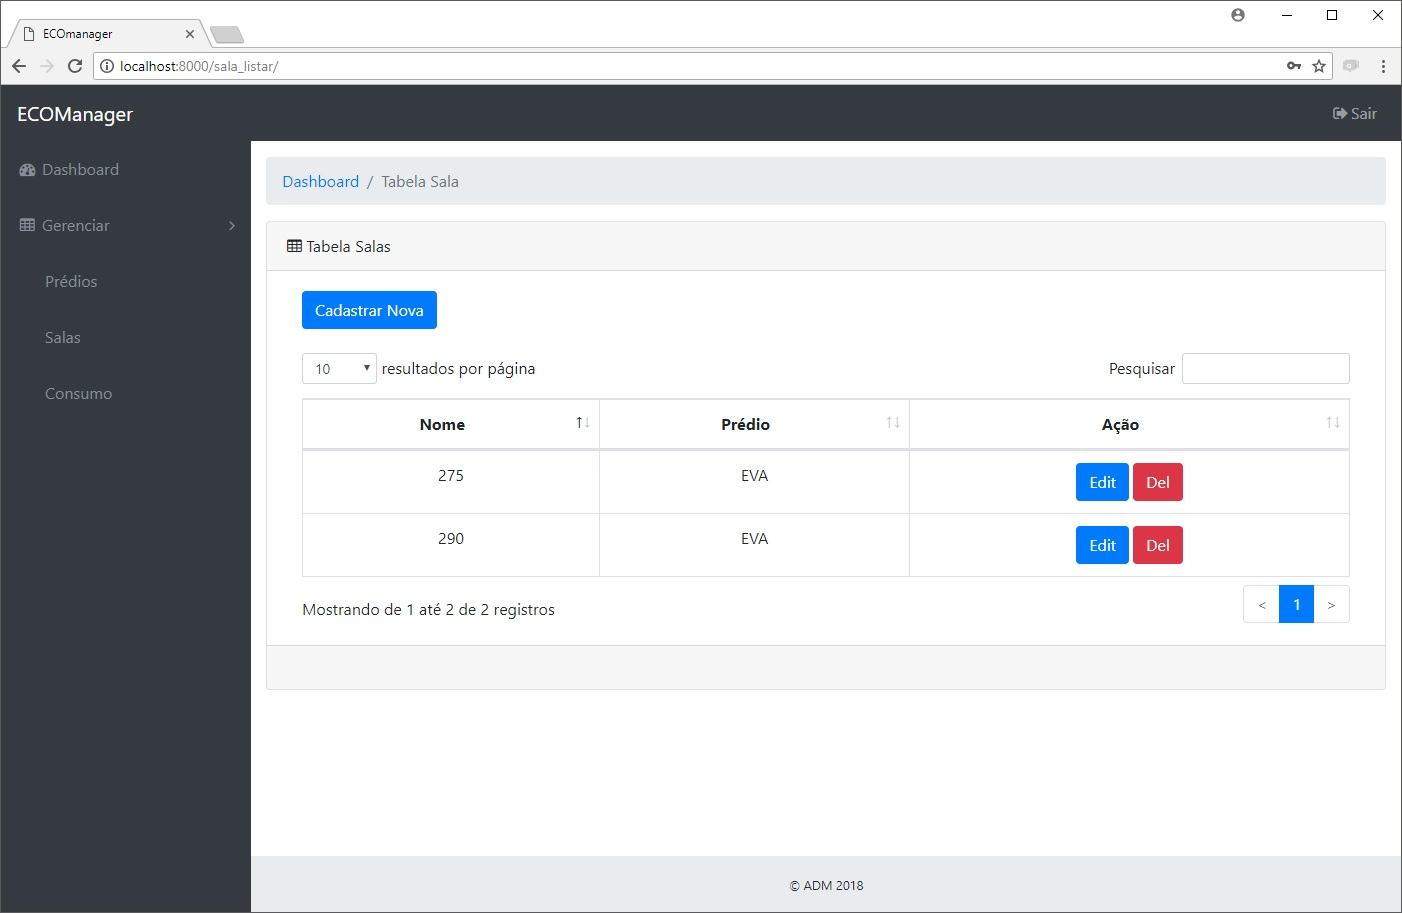
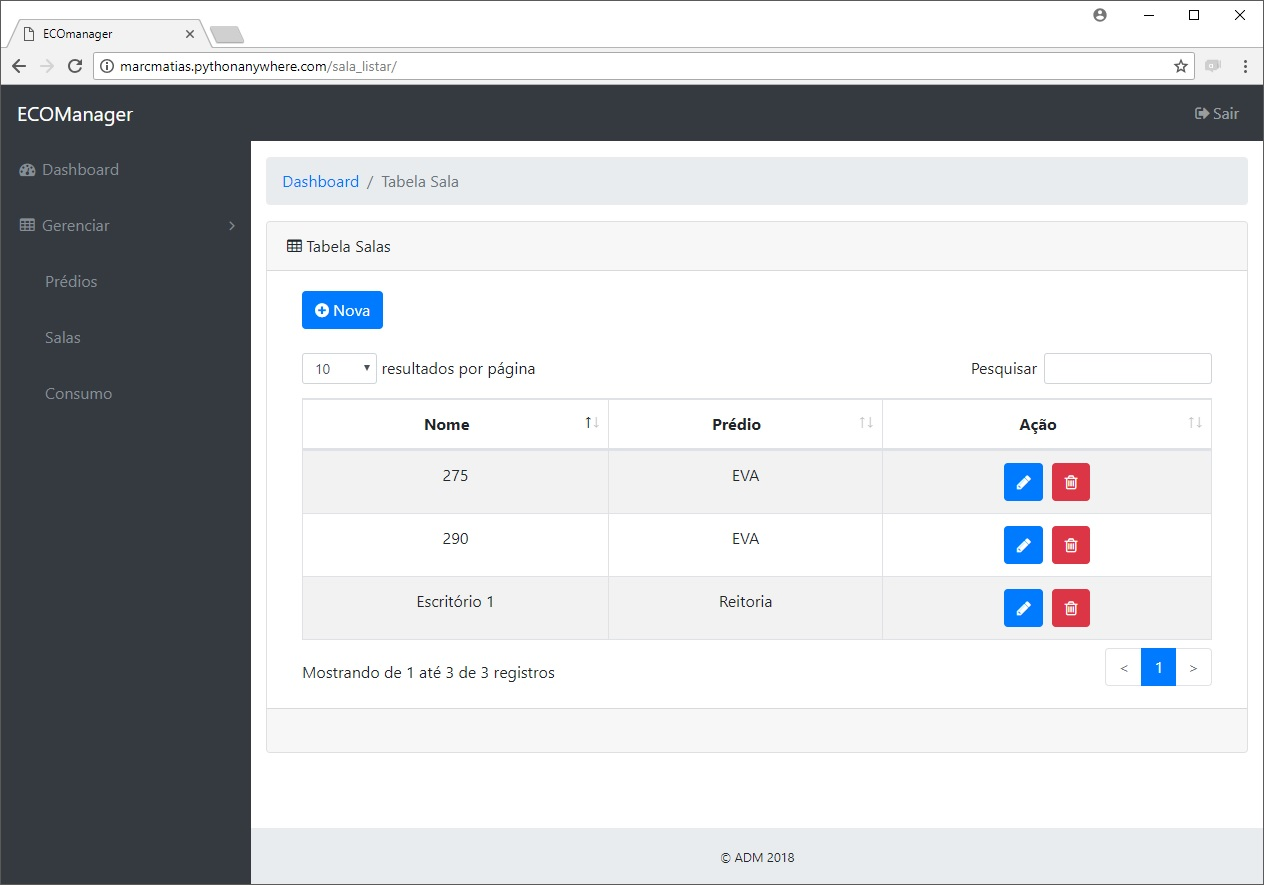
atualizacao de imagens mockups e do link da brand navbar

diff --git a/sistema/templates/base.html b/sistema/templates/base.html
@@ -24,7 +24,7 @@
   <body class="fixed-nav sticky-footer bg-dark" id="page-top">
     <!-- Navigation-->
     <nav class="navbar navbar-expand-lg navbar-dark bg-dark fixed-top" id="mainNav">
-      <a class="navbar-brand" href="{% url 'sistema:home' %}">ECOManager</a>
+      <a class="navbar-brand" href="{% url 'sistema:chart' %}">ECOManager</a>
       <button class="navbar-toggler navbar-toggler-right" type="button" data-toggle="collapse" data-target="#navbarResponsive" aria-controls="navbarResponsive" aria-expanded="false" aria-label="Toggle navigation">
         <span class="navbar-toggler-icon"></span>
       </button>
